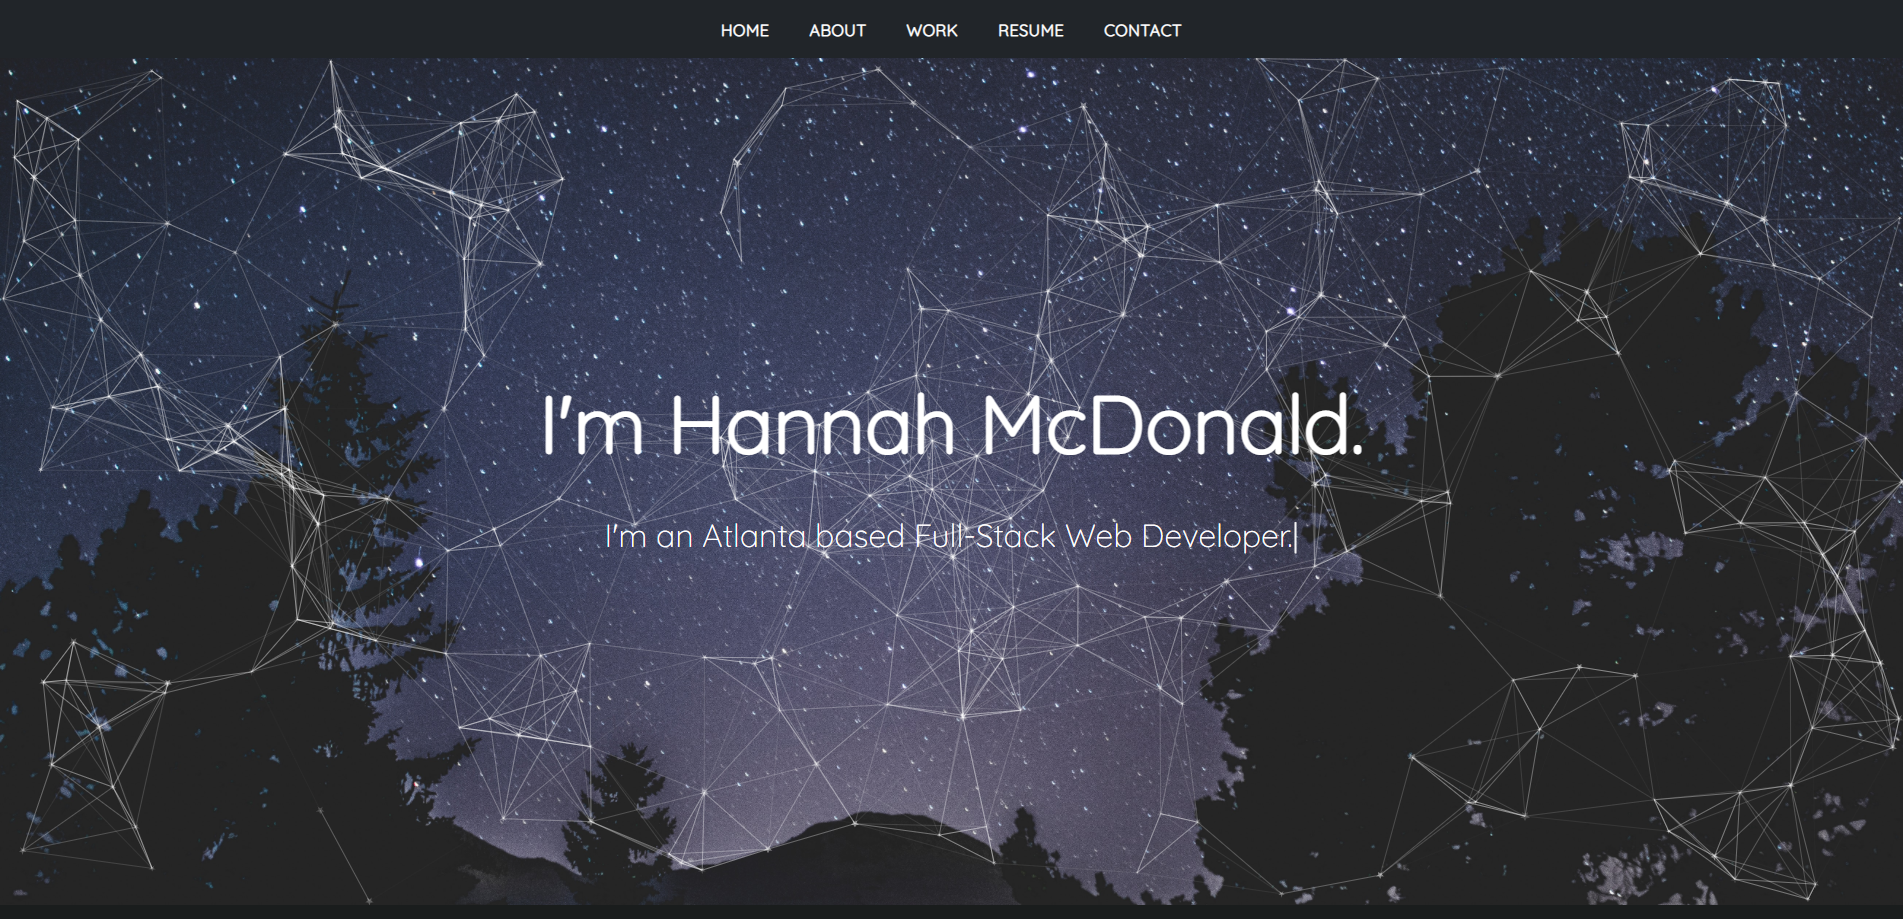
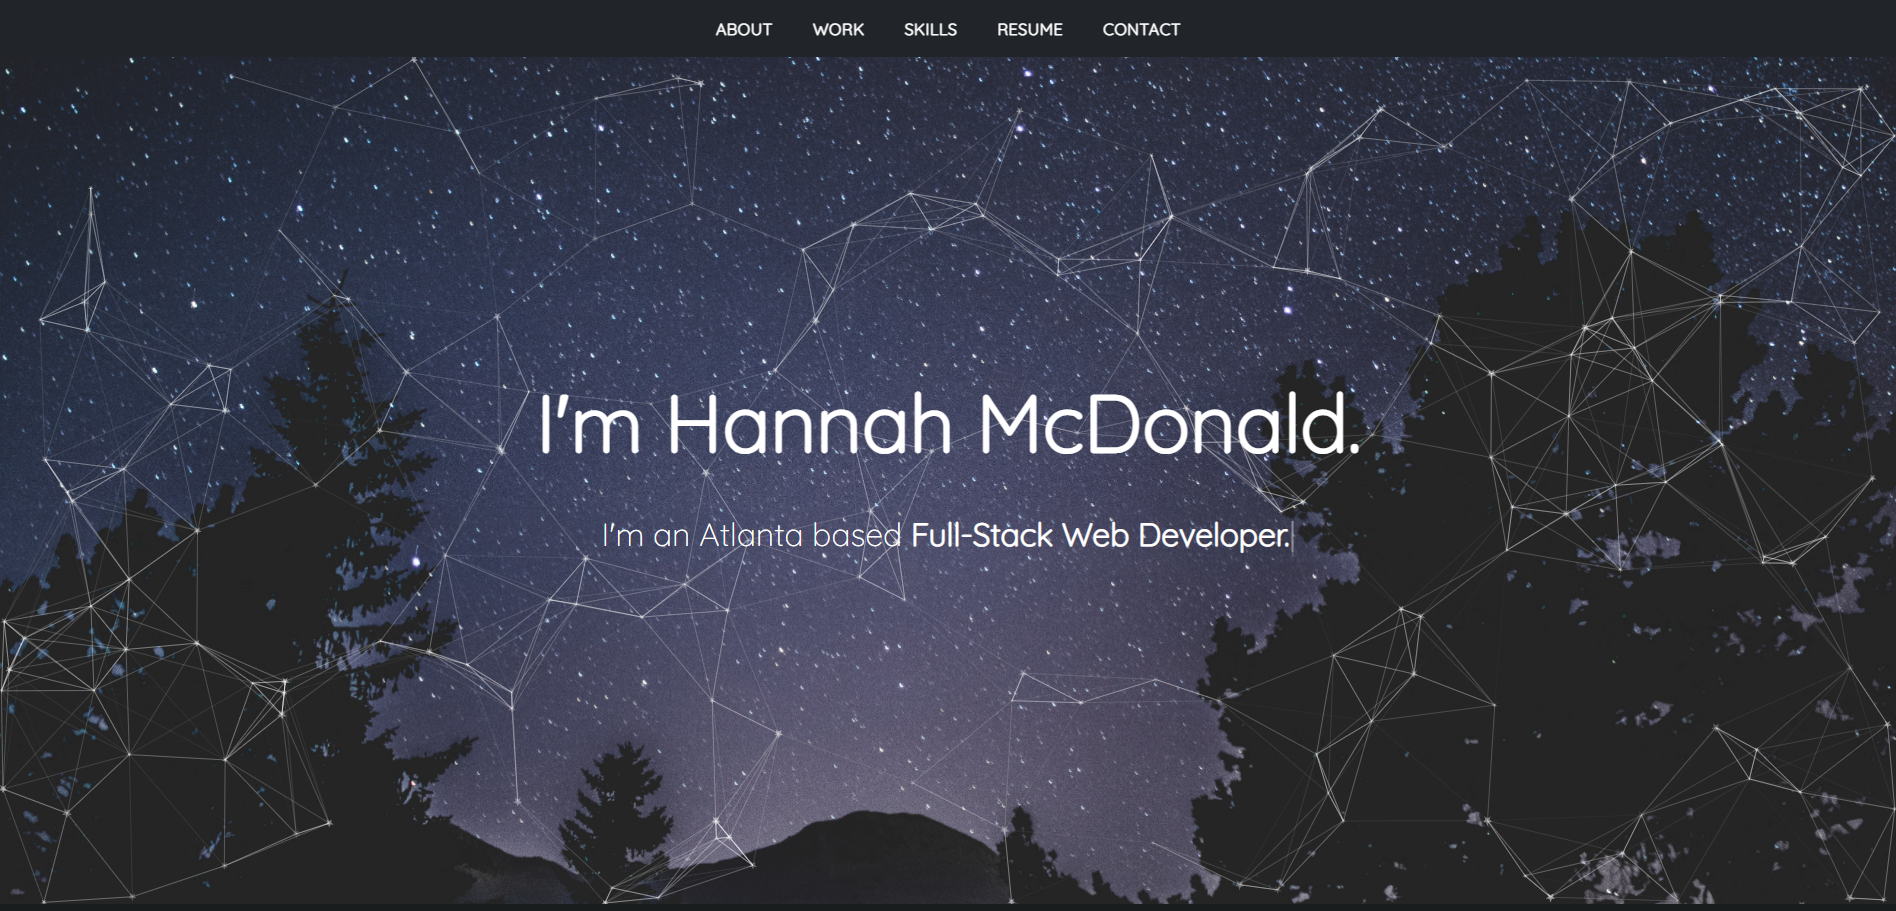
page scroll fixed, resume src fixed, particles fixed. TO DO: Validation Form messages

diff --git a/src/components/navbar.js b/src/components/navbar.js
@@ -23,26 +23,22 @@ const navbar = () => {
             <div className="container">
                 <div className="collapse navbar-collapse" id="navbarSupportedContent">
                     <ul className="navbar-nav mx-auto">
-                        {/* <li className="nav-item">
-                            <Link smooth={true} to "#" className="nav-link" href="/react_portfolio"> Home </Link>
-                        </li> */}
-                        
                         {/* Scroll to top option */}
                         <ScrollToTop smooth component={<BsArrowUpCircle/>} />
                         <li className="nav-item">
-                            <Link smooth={true} to="about" className="nav-link" href="#">About</Link>
+                            <Link smooth={true} to="about" className="nav-link">About</Link>
                         </li>
                         <li className="nav-item">
-                            <Link smooth={true} to="skills" className="nav-link" href="#">Skills</Link>
+                            <Link smooth={true} to="work" className="nav-link">Work</Link>
                         </li>
                         <li className="nav-item">
-                            <Link smooth={true} to="work" className="nav-link" href="#">Work</Link>
+                            <Link smooth={true} to="skills" className="nav-link">Skills</Link>
                         </li>
                         <li className="nav-item">
-                            <Link smooth={true} to="resume" className="nav-link" href="#r">Resume</Link>
+                            <Link smooth={true} to="resume" className="nav-link" >Resume</Link>
                         </li>
                         <li className="nav-item">
-                            <Link smooth={true} to="contact" className="nav-link" href="#">Contact</Link>
+                            <Link smooth={true} to="contact" className="nav-link">Contact</Link>
                         </li>
                     </ul>
                 </div>

diff --git a/src/components/resume.js b/src/components/resume.js
@@ -2,6 +2,8 @@
 import React from 'react';
 // Download Icon from React-Icons //
 import { FaFileDownload } from 'react-icons/fa';
+// Import Resume PDF //
+// import { resumepdf } from '../pdf/hannahmcdonaldresume2021.pdf';
 
 const resume = () => {
     return (
@@ -9,13 +11,13 @@ const resume = () => {
             <div className="row">
                 <h1>Resume</h1>
                 <h6>You can download a PDF of my resume here</h6>
+                {/* <h6></h6>
+                <h6></h6> */}
                 <div className="columns download">
-                    <p>
-                        {/* TO DO: EMBED RESUME LINK */}
-                        <button href= "https://docs.google.com/document/d/1CHkaG-6mMA2N7rDirFmvaa9xIG7X2dT8qJSUxdgFj6M/edit?usp=sharing" className="button download-button">
-                            <FaFileDownload className= "resume"/> Download Resume
-                        </button>
-                    </p>
+                    {/* TO DO: EMBED RESUME LINK */}
+                    <a href= "https://drive.google.com/file/d/1EBrP-OA3QyAsXZ4pOpjnlX6na7lpyrJa/view?usp=sharing" className="button download-button">
+                        <FaFileDownload className= "resume"/> Download Resume
+                    </a>
                 </div>
             </div>
         </div>

diff --git a/src/App.css b/src/App.css
@@ -203,17 +203,18 @@ div.skills-wrapper {
 
 /* RESUME */
 
-.button.download-button {
+a.download-button {
   color: var(--primary-white);
   text-decoration: none;
   font-size: 1.25rem;
   border-radius: 1rem;
   background-color: rgb(255,255,255,0.5);
   padding: 1rem;
-  margin: 2rem;
+  margin-top: 2rem;
+  border: 2px solid var(--primary-white);
 }
 
-.button.download-button:hover {
+a.download-button:hover {
   cursor: pointer;
   background-color: var(--neutral-color);
   border: 2px solid var(--primary-white);
@@ -221,15 +222,8 @@ div.skills-wrapper {
 
 h6 {
   color: var(--primary-white);
-  /* padding: 1rem; */
+  padding-bottom: 2rem;
 }
-
-/* button {
-  border-radius: 1rem;
-  background-color: rgb(255,255,255,0.5);
-  padding: 1rem;
-  color: var(--neutral-color);
-} */
 
 h1 {
   color: var(--primary-white);
@@ -241,8 +235,7 @@ h1 {
   margin-bottom: 2.5rem;
 }
 
-
-button.download-button:hover {
+a.download-button:hover {
   cursor: pointer;
   color: var(--primary-white);
   background-color: var(--secondary-color);

diff --git a/src/components/header.js b/src/components/header.js
@@ -3,7 +3,7 @@ import React from 'react';
 // Import React-Typed //
 import Typed from 'react-typed';
 // Import Particles //
-import Particles from 'react-particles-js';
+import { Particles } from 'react-particles-js';
 import particles from '../const/particle';
 
 const header = () => {
